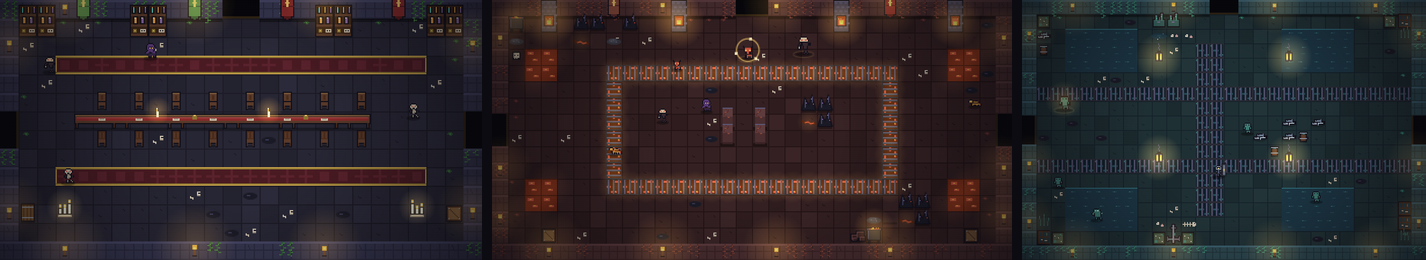
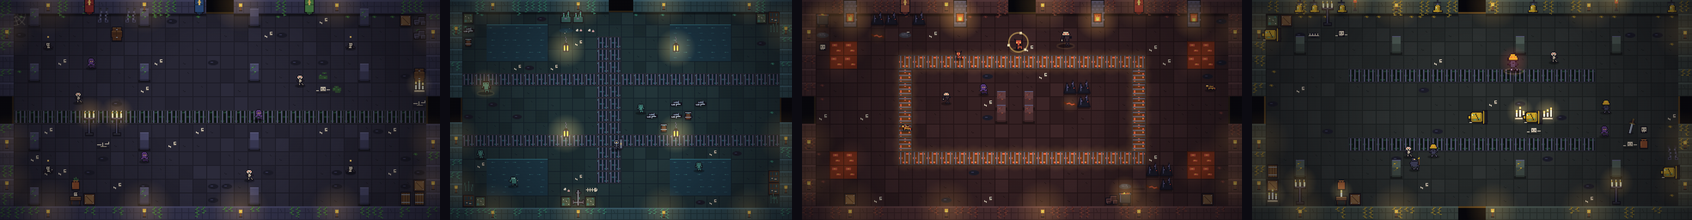
Front page: the full guide. Floors, the fight, weapons, spells, enemies, bosses, rooms, gear, relics, bearings, loops, controls

diff --git a/README.md b/README.md
@@ -8,37 +8,268 @@
 
 ---
 
-## The hollow
+## Contents
 
-Every run is a new dungeon: three biomes, each with its own hazards, litter and set-piece rooms, then the Hollow Throne and the Wyrm's Maw. Rooms range from tight closets to halls wider than the screen.
+[The descent](#the-descent) · [The fight](#the-fight) · [Weapons](#weapons) · [Spells](#spells) · [Enemies](#enemies) · [Bosses](#bosses) · [Rooms](#rooms) · [Gear](#gear) · [Relics](#relics) · [Bearings](#bearings) · [Loops, dailies, seeds](#loops-dailies-seeds) · [Controls](#controls)
 
-<p align="center"><img src="readme/rooms.png" alt="The dining hall, the forge hall and the cistern" width="960"></p>
+## The descent
+
+Every run is a new dungeon of six floors. Each floor is fifteen rooms or so around a start fire, with a boss at the far end and stairs behind it. Death sends you back to the first floor with fresh gear and nothing carried over but what you learned. There are no checkpoints.
+
+| Floor | Name | Boss | What lives there |
+|---|---|---|---|
+| 1 | **Gloomhollow** | The Warden | Crypts, graves and a lost camp. Pits and spike floors. Hollows, cultists, brawlers, shieldbearers, wretches, bellringers. |
+| 2 | **The Drowned Halls** | The Rusted Knight | Wrecks, fish traps and tide pools; water that slows you; the flooded hall. Drowned ones and anglers join the hollow. |
+| 3 | **The Ember Depths** | The Cinder Witch | Forges and lava; the kiln. Imps and salamanders, and fire on the floor from both. |
+| 4 | **The Tolling Deep** | Hells Bell | Bells on the walls, fallen bells on the floor, the carillon hall. Tollers in bell armour, and the ossuary again. |
+| 5 | **The Hollow Throne** | The Hollow King | A bare hall before the last stair. Only the King. |
+| 6 | **The Wyrm's Maw** | The Ashen Wyrm | The Wyrm's arena. Beat it and the hollow lets you go, or descend again. |
+
+<p align="center"><img src="readme/rooms.png" alt="The crypt colonnade, the cistern, the forge hall and the carillon" width="960"></p>
+
+Foes hit harder on every floor down, and there are more of them in the deeper rooms of each floor. Elites appear more often the deeper you go.
 
 ## The fight
 
-One strike per weapon, and a charged heavy on every one: hold right click, or hold the aim stick at its rim, then let go. Block in every direction. Time the block and you parry; parry and the riposte is yours. Roll through pits, dodge the red wedge where a blow is about to land, and drink from the well when you find it.
+**One strike per weapon.** Tap to strike. Keep the button held past the strike and the weapon draws back and charges; release when it flashes for the heavy, or let go early for a plain strike. Every weapon has its own heavy, and they are slow and open: you cannot roll out of a heavy until it is nearly done.
 
-Fifteen weapons, from thief's daggers that loose a flurry to a tomb warhammer that shakes the ground. Magic comes back only between rooms. This is a melee game.
+**Block and parry.** The shield guards every direction. Time the block as the blow lands and you parry: the foe staggers, and your next strike is a riposte for heavy damage. Shieldbearers and bosses can be parried too.
 
-## The bosses
+**Roll.** Invulnerable for most of it. Roll through shockwaves, through the Wyrm's breath as it flashes, across pits, out of an angler's line.
 
-<p align="center"><img src="readme/bosses.png" alt="The Warden, the Rusted Knight, the Cinder Witch, the Hollow King, the Ashen Wyrm" width="560"></p>
+**Stamina** pays for strikes, heavies and rolls, and comes back when you stop. **Mana** pays for spells and comes back only between rooms. This is a melee game. **Flasks** heal; you carry three, refilled at the start fire of each floor, and wells add to the count for the run.
 
-Each one gets a card as you walk in, and roars.
+**Telegraphs.** A dotted line shows your reach. A red wedge on the floor is where a foe's blow is about to land; a ring is a shockwave coming; a dashed line is a charge or a rupture.
+
+**Souls** drop from everything you kill and buy from merchants and smiths. Nothing stays with you when you die.
+
+## Weapons
+
+Fifteen, found in chests, on arena pedestals and merchant counters. One or two per floor. Each has a plain strike and a named heavy.
+
+| Weapon | Strike | Heavy | What the heavy does |
+|---|---|---|---|
+| **Rusted Shortsword** | plain, 18 damage | Wheel (0.6s charge, x1.6) | a full circle swing |
+| **Thief Daggers** | very fast, chains, 11 damage | Flurry (0.4s charge, x0.65) | three cuts, each leaves the foe bleeding |
+| **Bone Spear** | long thrust, 26 damage | Impale (0.7s charge, x1.75) | runs through every foe in a line |
+| **Gravedigger Mace** | pounds the ground, staggers, 34 damage | Wrecker (0.9s charge, x1.6) | the whirl breaks into a full circle, then the pound |
+| **Warden Greatsword** | huge, slow, 52 damage | Cleave (1.1s charge, x1.75) | hurls foes back and lays them out |
+| **Ember Blade** | hits burn, 15 damage | Firewake (0.6s charge, x1.6) | leaves a crescent of fire burning |
+| **Frost Axe** | hits slow, 34 damage | Shatter (0.9s charge, x1.6) | freezes; a chilled foe takes half again |
+| **Hollow's Chain** | wide reach, weak, 14 damage | Haul (0.7s charge, x1.6) | drags every foe hit to your feet |
+| **Soul Scythe** | drinks blood, 36 damage | Reap (1s charge, x1.6) | mends you for every foe hit |
+| **Storm Rapier** | every strike lunges, 22 damage | Blink (0.5s charge, x1.6) | step through the foe, strike from behind |
+| **Cursed Cleaver** | +50% dmg, bleeds you, 30 damage | Butcher (0.7s charge, x1.75) | triple damage to the nearly dead |
+| **Gatewarden Halberd** | long, sweeping, 40 damage | Bulwark (1s charge, x1.6) | the sweep leaves a ward on you |
+| **Tomb Warhammer** | crushing, shakes the ground, 60 damage | Tremor (1.4s charge, x2) | everything in the pound is stunned |
+| **Duelist Sabre** | quick cuts, steps in, 17 damage | Passado (0.5s charge, x1.5) | a dash through the line, untouchable |
+| **Gravedirt Katar** | fastest, short, 13 damage | Frenzy (0.35s charge, x0.6) | four cuts; each one returns stamina |
+
+The smith's infusions add a burn, a chill or lifesteal to any weapon; the whetstone adds twenty percent.
+
+## Spells
+
+Cast with E, aimed where you look. Mana refills between rooms only.
+
+| Spell | Mana | Effect |
+|---|---|---|
+| **Soul Bolt** | 20 | plain |
+| **Bone Shards** | 26 | three bolts |
+| **Grave Nova** | 30 | burst around you |
+| **Shade Step** | 14 | short teleport |
+| **Bone Ward** | 24 | absorbs one hit |
+| **Frost Hex** | 22 | slows all foes |
+| **Ember Lance** | 24 | burning bolt |
+| **Soul Chain** | 18 | drags a foe to your blade |
+| **Ashfall** | 28 | fire rains around you |
+
+## Enemies
+
+<p align="center"><img src="readme/enemies.png" alt="Hollow, cultist, brawler, shieldbearer, wretch, bellringer, drowned one, angler, imp, salamander, toller" width="960"></p>
+
+| Foe | Where | Health / hit | How it fights |
+|---|---|---|---|
+| **A hollow** | Floor 1 on | 34 / 14 | The rank and file. Closes in, curving from a side, and lunges. Cheap souls, and there are always more. |
+| **A cultist** | Floor 1 on | 26 / 14 | Shoots arrows from range and ducks behind pillars and crates to reload, peeking out to fire. Take the cover away from it. |
+| **A brawler** | Floor 1, deeper rooms | 48 / 13 | Sidesteps at mid range, then comes in with a two-hit lunge combo. The second hit follows quickly. |
+| **A shieldbearer** | Floor 1, deeper rooms | 60 / 20 | Slow, and turns slowly. Blocks strikes from the front; a charged heavy or a parry breaks the guard. Lunges when it gets close. |
+| **A wretch** | Packs of three | 14 / 6 | Small, fast and weaving. They bite for little but arrive together. |
+| **A bellringer** | Floor 1 on, one per room | 30 / 10 | Hangs back and rings to bless the pack: faster and harder-hitting for a few seconds. Only swings when cornered. Kill it first. |
+| **A drowned one** | The Drowned Halls | 70 / 22 | A slow, heavy slam up close, and from range a gout of black water. Water does not slow it. |
+| **An angler** | The Drowned Halls | 60 / 20 | Casts a hook that drags you in for the bite. Roll to tear free of the line. |
+| **An imp** | The Ember Depths | 30 / 14 | Kites at half pace, throws three fireballs that burn, then blinks away. Catch it between the shots. |
+| **A salamander** | The Ember Depths | 45 / 14 | Circles at sword range leaving a burning trail, then whips its tail in a wide arc. Fire does nothing to it. |
+| **A toller** | The Tolling Deep | 70 / 18 | A hollow under a bell helm. Swings wide. Below half health it stops and tolls: a shockwave that stuns you unless you roll through it. |
+
+Stats are floor-one numbers; every floor down adds twenty percent health and sixteen percent damage.
+
+**Elites** have a golden ring under them and one affix: **burning**, leaves fire where it walks; fire does not touch it; **warded**, three wards that only a heavy strike or a parry breaks; **swift**, faster, with shorter wind-ups; **thorned**, hurts you back when you hit it; **vampiric**, heals on every hit it lands. **Champions** (loops only) are named, half again as tough, rise once from death with a roar, and drop steel and a tome.
+
+## Bosses
+
+<p align="center"><img src="readme/bosses.png" alt="The Warden, the Rusted Knight, the Cinder Witch, Hells Bell, the Hollow King, the Ashen Wyrm" width="660"></p>
+
+Each gets a title card as you walk in, and roars. Nothing moves until the card is done.
 
 <p align="center"><img src="readme/card.png" alt="The Rusted Knight's title card" width="720"></p>
 
-## The relics
+### The Warden · Floor 1
+
+*Keeper of Gloomhollow.* 300 health, 34 a hit on the first descent.
+
+Slams the ground where you stand, sweeps a hook at arm's length, and charges if you keep away. At two thirds health he roars (a shockwave) and rages: leaps onto you, charges from closer, slams twice. At a third he roars again and goes berserk: faster, every slam cracks the floor into a shockwave, the sweep comes back the other way, the charge ends in a crater.
+
+**On a loop, Warden Unchained.** Warden Unchained: charges and leaps from the first second, and every slam sends a shockwave.
+
+### The Rusted Knight · Floor 2
+
+*Duelist of the Drowned Halls.* 240 health, 22 a hit on the first descent.
+
+A duelist. Dashes in from range, and up close fights in three-hit combos. Below half health he throws his sword and dashes after it to take it back. Parry him and he staggers long enough for a riposte.
+
+**On a loop, Knight Reforged.** Knight Reforged: a whirling blade at mid range, a delayed final hit on the combo, and two drowned ones called up at half health.
+
+### The Cinder Witch · Floor 3
+
+*Mother of Embers.* 210 health, 16 a hit on the first descent.
+
+Blinks away when you close. Volleys of fire bolts, rings of fire around herself, and a summons of imps below sixty percent. The floor she leaves burning is the fight.
+
+**On a loop, Witch Ascended.** Witch Ascended: sweeping walls of fire and meteors that fall where you stood.
+
+### Hells Bell · Floor 4
+
+*Death comes ringing.* 340 health, 26 a hit on the first descent.
+
+A giant with a bell for a head and a hand bell to ring. The toll is a shockwave that stuns you if it catches you standing: roll through it. The bell slam lays a line of broken floor toward you. At two thirds health he kneels and rings the dead up, untouchable until they fall. At a third the lights go out and he is gone; volleys of bell sparks cross the room in curtains, rings and rain until they are spent, then the lights return and so does he.
+
+**On a loop, Hells Bell.** The Last Toll: two shockwaves per toll, four risen, six volleys and two spark patterns at once.
+
+### The Hollow King · Floor 5
+
+*Warden of the last stair.* 360 health, 26 a hit on the first descent.
+
+Warden of the last stair, always at full strength. Calls the hollow at three quarters, half and a quarter health. Up close a wide sweep; at mid range a rupture, a line of rock thrown at you; from far, shadow bolts that turn to follow you. Below half he stomps a shockwave and moves faster.
+
+### The Ashen Wyrm · Floor 6
+
+*It was here before the hollow.* 500 health, 24 a hit on the first descent.
+
+It fills the top of the arena. Its claws slam down and stay planted where they land, and that is where you hit it. The tail sweeps across, snaking, and rears up to slam where you stand, a shockwave and rubble. The breath is a cone that flashes together after its warning: roll through it and the head hangs open for a moment. Ember globs are lobbed at you and around you. Strike the raised head, or stand under it, and it lunges out on its neck to bite, then stays down and open. At half health it roars and the outer floor turns to lava; imps crawl out. At a quarter it roars again and the stage shrinks further.
+
+**On a loop, The Ashen Wyrm.** On a loop: double claws, double tail passes, five globs.
+
+<p align="center"><img src="readme/bossfigures.png" alt="The bosses as they stand" width="720"></p>
+
+## Rooms
+
+| Room | What happens |
+|---|---|
+| **Combat rooms** | Most of the floor. Standard rooms, tall rooms, corridors and closets, each dressed in the biome's litter, plus grand rooms wider than the screen: the long hall, the stair hall, the dining hall, the library, and one set piece per biome. |
+| **Arena** | Three waves, no doors until they are done. A weapon waits at the end. |
+| **Treasure** | A chest. One or two weapons are hidden on each floor, in chests or on the merchant's counter; relics come from chests only. |
+| **Vault** | Locked. The key is somewhere on the floor. |
+| **Secret** | A hidden wall. Strike where the stone sounds wrong and a forgotten hoard opens. |
+| **Shop** | A merchant behind a counter: flasks, gear, a tome or a weapon. Prices climb with every floor. |
+| **Smith** | A whetstone (+20% weapon damage) and three infusions: Ember (hits burn), Frost (hits chill), Blood (hits drink). |
+| **Shrine** | Three offerings, take one: a stat or a piece of school gear. |
+| **Puzzle** | Braziers that keep an order (the notches tell it), pressure plates, idols turned to face the stone, or a walk across stones in one unbroken path. A wrong move raises a hollow. The prize matches the riddle. |
+| **Trap** | The pit ring: treasure on an island of floor between two rings of pits. Roll across. Fall and you climb out on the side you came from. |
+| **Blessed Well** | One a floor on the first three floors. Drink and carry one more flask for the rest of the run. |
+| **Ossuary** | Floors 1 and 4. The fallen lie everywhere; search them, and some remember how to stand. |
+| **Flooded hall** | Floor 2. A chest on an island in still water. Taking it brings the drowned up. |
+| **Kiln** | Floor 3. A brazier riddle across a lava moat; solve it for an Ember Infusion. |
+| **Belfry** | Floor 4's arena, where Hells Bell waits. |
+
+**Events.** Some rooms carry one: **An ambush**, reinforcements drop in mid-fight. **A blood moon**, double souls, and every foe an elite. **The torches die**, you see only a few steps around you. **The fallen stir**, the corpses on the floor get up.
+
+## Gear
+
+<p align="center"><img src="readme/gear.png" alt="Stat gear and school gear" width="600"></p>
+
+From shrines, chests and merchants. Stackable, and every copy counts.
+
+| Piece | Does |
+|---|---|
+| **Amulet of Deep Root** | +40 max HP |
+| **Boots of Long Road** | +40 stamina |
+| **Gauntlet of Ash** | +35% damage |
+| **Stillwater Circlet** | +40 mana, +60% spells |
+| **Cloak of the Wind** | +20% speed |
+| **Vial of Old Blood** | +35 max health |
+| **Bone Prayer Beads** | +35 max mana |
+| **Pilgrim's Gourd** | +1 flask |
+
+**Schools.** Twelve pieces that build a specialty. Stack them with a matching weapon or spell and it becomes a run.
+
+| School | Pieces |
+|---|---|
+| **Fire** | **Kindling Charm**, +25% fire damage; **Wildfire Ash**, burning foes spread fire; **Cinder Heart**, longer fires; +20% vs burning |
+| **Frost** | **Rime Tooth**, +20% vs the chilled; **Hoarfrost Band**, chills last twice as long; **Brittle Bone**, a chilled kill chills its neighbours |
+| **Blood** | **Leech Fang**, melee drinks 5% as health; **Ruin Nail**, +25% vs the bleeding; **Sanguine Cup**, kills mend 3 |
+| **Arcane** | **Focus Lens**, +30% spells; **Echo Stone**, spells cost a quarter less; **Conduit Ring**, melee hits return 2 mana |
+
+## Relics
 
 <p align="center"><img src="readme/relics.png" alt="Twenty relics" width="600"></p>
 
-Twenty relics, one copy of each per run, chests only. Every one bends a rule: a stone that spares you once a floor, a shard that turns one blow in five back on its owner, a candle that returns mana on a kill, a brand that charges heavies in half the time. Some are rarer than others. It won't tell you which.
+Twenty, one copy of each per run, chests only. Every one bends a rule. Some are rarer than others; it will not tell you which.
 
-## The bearings
+| Relic | Rule it bends |
+|---|---|
+| **Thorn Band** | parries wound the attacker |
+| **Ember Idol** | every strike burns |
+| **Veil of Smoke** | the whole roll is untouchable |
+| **Aegis Shard** | a ward as each fight begins |
+| **Miser's Ring** | half again the souls |
+| **Cracked Hourglass** | foes wind up slower |
+| **Iron Heart** | flasks heal 70 |
+| **Bloodstone** | once a floor, death spares you |
+| **Hollow Mask** | hit harder when near death |
+| **Frost Sigil** | parries chill the attacker |
+| **Ember Heart** | flasks burst into flame |
+| **Drowned Lantern** | kills mend you a little |
+| **Merchant's Seal** | every price a quarter off |
+| **Quicksilver Vial** | rolls cost nothing, go farther |
+| **Warden's Brand** | heavies charge fast and free |
+| **Witch's Candle** | kills return mana |
+| **Mirror Shard** | one blow in five turns back |
+| **Gargoyle Heart** | no blow interrupts your swing |
+| **Crimson Tithe** | +40% damage, flasks heal half |
+| **Feather Charm** | pits do not hurt |
+
+## Bearings
 
 <p align="center"><img src="readme/bearings.png" alt="Eighteen bearings" width="960"></p>
 
-Eighteen looks for your knight, each unlocked by a deed: parry ten strikes, search the fallen, slay the Warden untouched, slay the Rusted Knight and wear his helm.
+Eighteen looks for your knight, each unlocked by a deed. Cosmetic, and kept across runs.
+
+| Bearing | Deed |
+|---|---|
+| **Footman** | Plain steel. It will do. |
+| **Hollow** | Fell 40 hollows |
+| **Cultist** | Fell 20 cultists |
+| **Duelist** | Parry 10 strikes |
+| **Wanderer** | Search 8 of the fallen |
+| **Gilded** | Find what the wall hides |
+| **Sage** | Solve the brazier riddle |
+| **Warden's Bane** | Slay the Warden |
+| **Rustbound** | Slay the Rusted Knight |
+| **Tidewalker** | Fell 20 drowned ones |
+| **Cinderborn** | Fell 20 imps |
+| **Gladiator** | Survive 3 arenas |
+| **Unbroken** | Slay a boss untouched |
+| **Ascetic** | Clear a floor without a flask |
+| **Ashen One** | Reach floor 5 |
+| **Reaper** | 300 kills in total |
+| **Dawnbringer** | Clear floor 2 of a daily run |
+| **Unhollowed** | Slay the Ashen Wyrm |
+
+## Loops, dailies, seeds
+
+Slay the Wyrm and you may descend again. Each loop turns the first four floors colder and stranger (Lower Gloomhollow, The Drowned Deep, The Ember Core, The Tolling Dark), meets the biome bosses in their second forms, adds champions and bigger halls, and scales everything up. The King and the Wyrm are always at full strength.
+
+A **daily run** is the same dungeon for everyone that day; your deepest floor and souls are kept. **Seed** lets you replay a layout, or hand one to a friend. The **records** screen keeps your kills, parries, bosses and deaths.
 
 ## Controls
 
@@ -46,14 +277,13 @@ Eighteen looks for your knight, each unlocked by a deed: parry ten strikes, sear
 |---|---|---|
 | WASD | move | left stick |
 | mouse | aim | right stick, pull and release to strike |
-| left click | strike | |
-| hold right click | charge a heavy, release to swing | hold the stick at its rim |
-| Shift | block, timed for a parry | BLOCK |
+| left click | release to strike; hold on, release when it flashes for the heavy | hold the stick at its rim |
+| Shift or right click | block, timed for a parry | BLOCK |
 | Space | roll | ROLL |
 | E, F, Q | spell, flask, use | SPELL, FLASK, USE |
-| I, M | satchel, map | ITEMS, MAP |
+| I, M, Esc | satchel, map, pause | ITEMS, MAP, pause |
 
-Death sends you back to the first floor with fresh gear. There are no checkpoints. It's a roguelike.
+Menus take the arrow keys or the mouse. Press H on the title for the full list.
 
 ---
 
